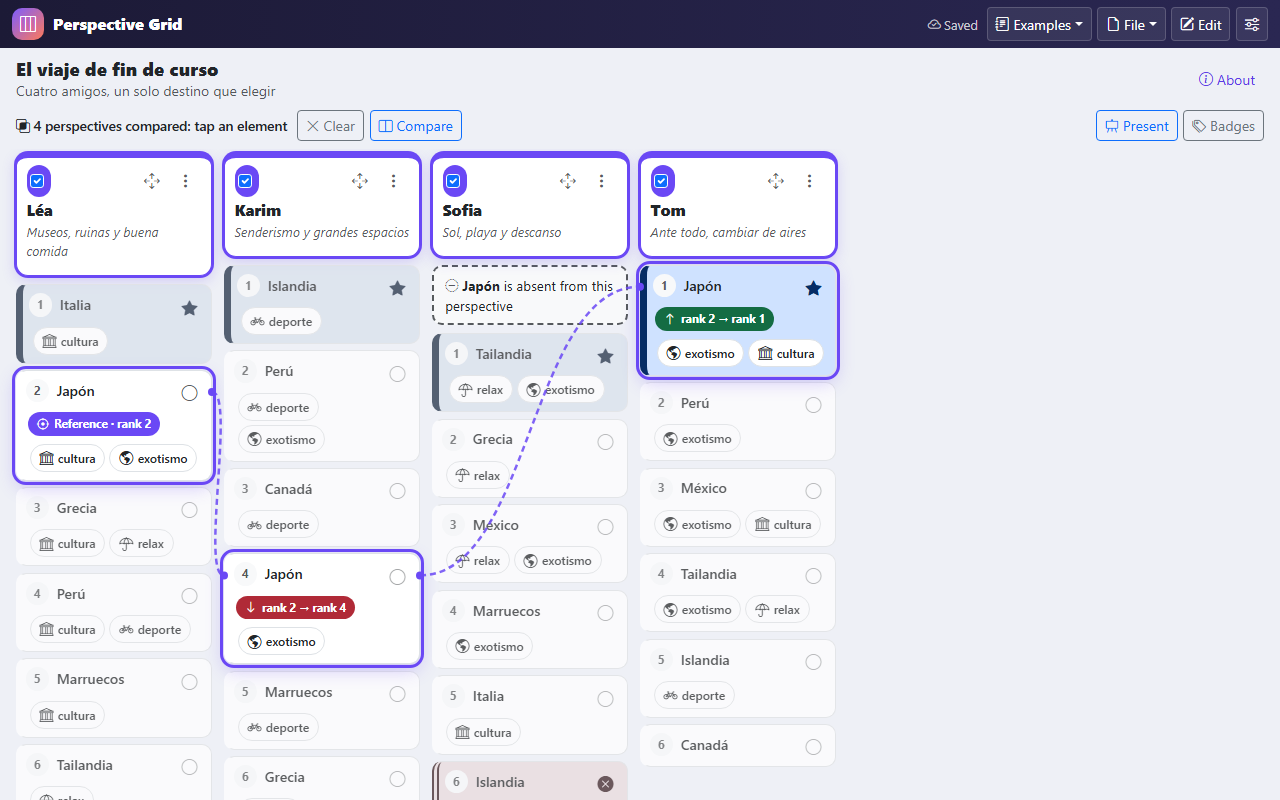
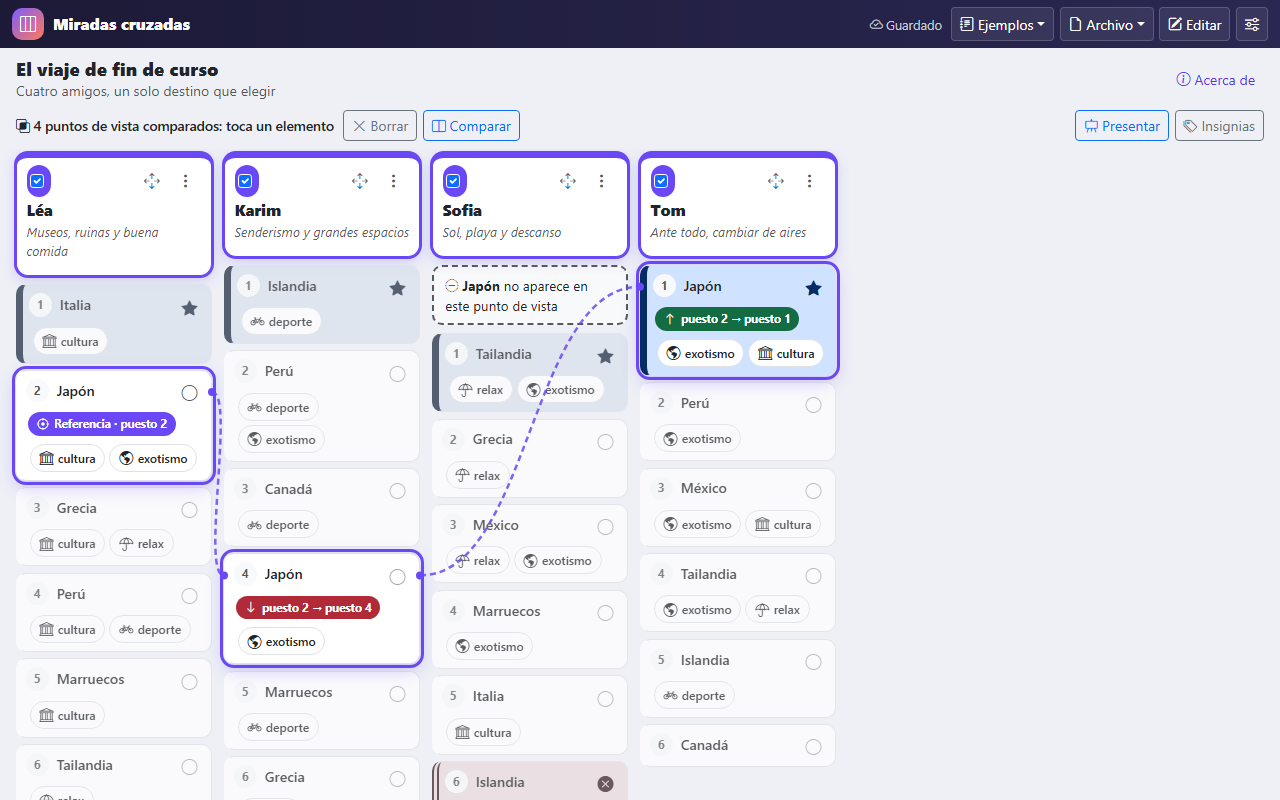
Interface en espagnol (dictionnaire es dans i18n.js, bouton Español), ?lang=fr|en|es dans l'adresse ; captures ES avec l'interface espagnole et README à jour

diff --git a/js/core/i18n.js b/js/core/i18n.js
@@ -1,6 +1,7 @@
 /*!
- * Interface translations (fr default, en). All UI strings live here.
- * Add a language: PG.i18n.add('es', { ... }, 'Español'). Missing keys fall back to French.
+ * Interface translations (fr default, en, es). All UI strings live here.
+ * Language: ?lang=fr|en|es in the address, else the saved choice, else the browser language.
+ * Add a language: PG.i18n.add('xx', { ... }, 'Name') + a data-lang button in index.html. Missing keys fall back to French.
  * DOM: data-i18n (text), data-i18n-html, data-i18n-title, data-i18n-aria (aria-label), data-i18n-placeholder.
  */
 (function (PG) {
@@ -16,6 +17,9 @@
   }
 
   function lang() {
+    var q = null;
+    try { q = new URLSearchParams(location.search).get('lang'); } catch (e) { /* ignore */ }
+    if (q && dict[q]) return q;
     var saved = PG.store.get('lang', null);
     if (saved && dict[saved]) return saved;
     var nav = (navigator.language || 'fr').slice(0, 2).toLowerCase();
@@ -384,4 +388,183 @@
     'st.offNote': 'No presentation mode is active in the main window (Present menu).',
     's.withStage': 'Open the link in the current presentation mode', 's.noStage': 'No presentation mode active'
   });
+})(window.PG);
+
+/* =================================================================== ES (interface + modes de présentation) */
+(function (PG) {
+  'use strict';
+  PG.i18n.add('es', {
+    'c.ok': 'Aceptar', 'c.cancel': 'Cancelar', 'c.close': 'Cerrar', 'c.save': 'Guardar', 'c.dateLocale': 'es-ES',
+
+    'a.brand': 'Miradas cruzadas', 'a.skip': 'Ir a la cuadrícula', 'a.mainNav': 'Barra principal',
+    'a.examples': 'Ejemplos', 'a.file': 'Archivo', 'a.load': 'Cargar una cuadrícula',
+    'a.openFile': 'Abrir un archivo .md…', 'a.pasteText': 'Pegar Markdown…', 'a.openUrl': 'Abrir desde una dirección…',
+    'a.export': 'Exportar en Markdown…', 'a.share': 'Enlace para compartir…', 'a.source': 'Ver / editar el Markdown',
+    'a.snapshot': 'Guardar una versión', 'a.history': 'Historial de versiones',
+    'a.edit': 'Editar', 'a.editTitle': 'Modo edición: mover, añadir, modificar (tecla E)',
+    'a.settings': 'Ajustes de visualización', 'a.theme': 'Tema', 'a.themeAuto': 'Auto', 'a.themeLight': 'Claro', 'a.themeDark': 'Oscuro',
+    'a.display': 'Visualización', 'a.prefPatterns': 'Tramas reforzadas (rayado según el estado)', 'a.prefLinks': 'Líneas de unión entre columnas', 'a.prefRanks': 'Números de puesto',
+    'a.language': 'Idioma de la interfaz', 'a.formatDoc': 'Documentación', 'a.withAi': 'Crear una cuadrícula con una IA…',
+    'a.about': 'Acerca de', 'a.warnTitle': 'Avisos de lectura', 'a.warnIntro': 'El archivo se ha cargado, pero algunos pasajes se han interpretado o ignorado:',
+    'a.warnClear': 'Entendido', 'a.saved': 'Guardado', 'a.editing': 'Editando…', 'a.storageFull': 'Almacenamiento local lleno: exporta tu cuadrícula',
+    'a.new': 'Nueva cuadrícula', 'a.newTitle': 'Nueva cuadrícula', 'a.newColumn': 'Punto de vista {n}',
+    'a.confirmNew': '¿Crear una cuadrícula vacía? La cuadrícula actual se guardará en el historial.',
+    'a.alreadyOpen': 'Este ejemplo ya está abierto.', 'a.exampleLoaded': 'Ejemplo cargado: {title}', 'a.linkLoaded': 'Cuadrícula abierta desde el enlace: {title}',
+    'a.nothingToUndo': 'No hay nada que deshacer.', 'a.undone': 'Cambio deshecho', 'a.redone': 'Cambio rehecho',
+    'a.editOn': 'Modo edición activado', 'a.editOff': 'Modo consulta', 'a.compactOn': 'Vista de comparación: solo se muestran las columnas seleccionadas',
+    'a.compactOff': 'Se muestran todas las columnas', 'a.selCleared': 'Selección borrada',
+
+    't.aria': 'Comparación', 't.selNone': 'Selecciona al menos 2 puntos de vista para compararlos', 't.selOne': 'Selecciona un 2.º punto de vista',
+    't.selNoneShort': 'Elige 2 columnas', 't.selOneShort': '1 columna más', 't.selN': '{n} puntos de vista comparados: toca un elemento',
+    't.all': 'Todas', 't.clear': 'Borrar', 't.compact': 'Comparar', 't.compactTitle': 'Mostrar solo las columnas seleccionadas, en una vista compacta',
+
+    'g.aria': 'Cuadrícula de puntos de vista', 'g.cellsAria': 'Elementos ordenados por {title}', 'g.compare': 'Comparar', 'g.selected': 'Seleccionada',
+    'g.selectHint': 'Selecciona esta columna para compararla', 'g.selectAria': 'Comparar «{title}»',
+    'g.moveLeft': 'Mover «{title}» a la izquierda', 'g.moveRight': 'Mover «{title}» a la derecha',
+    'g.moveLeftShort': 'Mover a la izquierda', 'g.moveRightShort': 'Mover a la derecha', 'g.dragCol': 'Arrastrar para mover la columna',
+    'g.colMenu': 'Acciones sobre «{title}»', 'g.colMenuShort': 'Acciones de la columna', 'g.selectForCompare': 'Seleccionar para comparar', 'g.unselect': 'Quitar de la comparación',
+    'g.moreDetail': 'Leer más', 'g.lessDetail': 'Mostrar menos',
+    'g.rankSr': 'Puesto {n}', 'g.stateSr': 'estado: {state}', 'g.badgesSr': 'insignias: {list}',
+    'g.stateBtn': 'Estado: {state} — cambiar (1 a 6)', 'g.stateBtnAria': 'Estado de «{title}»: {state}. Cambiar el estado o las insignias',
+    'g.stateHeader': 'Estado', 'g.cellMenuAria': 'Estado e insignias de la celda', 'g.defaultDesc': 'Descripción general del elemento',
+    'g.reference': 'Referencia · puesto {n}', 'g.rankGap': 'puesto {from} → puesto {to}', 'g.sameRank': 'mismo puesto ({n})',
+    'g.absent': '{title} no aparece en este punto de vista',
+    'g.srCompare': '{title}: {list}.', 'g.srRank': 'puesto {n} para {col}', 'g.srAbsent': 'ausente en {col}',
+    'g.srSame': 'mismo puesto', 'g.srLower': '{n} puesto(s) más abajo', 'g.srHigher': '{n} puesto(s) más arriba',
+    'g.srSelected': '{title} seleccionada. {n} columna(s) seleccionada(s).', 'g.srUnselected': '{title} quitada. {n} columna(s) seleccionada(s).',
+    'g.srStateSet': '{title}: estado {state}', 'g.srColMoved': '{title} movida a la posición {n} de {total}',
+    'g.empty': 'Esta cuadrícula aún no tiene ningún punto de vista.', 'g.emptyEdit': 'Añadir puntos de vista',
+
+    'state.default': 'Sin estado', 'state.primary': 'Destacado', 'state.success': 'Valorado', 'state.warning': 'Matizado, debatido',
+    'state.danger': 'Rechazado, opuesto', 'state.muted': 'Secundario, apartado',
+
+    'badge.central': 'central', 'badge.accepted': 'aceptado', 'badge.overvalued': 'sobrevalorado', 'badge.undervalued': 'infravalorado',
+    'badge.contested': 'discutido', 'badge.rejected': 'rechazado', 'badge.ignored': 'ignorado', 'badge.denied': 'negado', 'badge.instrumentalized': 'instrumentalizado',
+    'b.header': 'Insignias', 'b.drawer': 'Insignias', 'b.drawerTitle': 'Cajón de insignias', 'b.badgeAria': 'Insignia: {label}',
+    'b.helpMouse': 'Arrastra una insignia a una celda, o haz clic en una insignia y luego en las celdas que quieras anotar.',
+    'b.helpTouch': 'Toca una insignia y luego las celdas que quieras anotar. También puedes usar el botón de estado de una celda.',
+    'b.customHelp': 'Se pueden declarar más insignias en el encabezado del archivo (badges:).',
+    'b.armed': 'Toca celdas para añadir o quitar {badge}', 'b.disarm': 'Terminado', 'b.already': 'Esta insignia ya está en la celda.',
+    'b.srArmed': 'Insignia {label} lista: toca las celdas para anotarlas', 'b.srAdded': 'Insignia {label} añadida a {title}', 'b.srRemoved': 'Insignia {label} quitada de {title}',
+
+    'e.mode': 'Modo edición', 'e.barAria': 'Herramientas de edición', 'e.hint': 'Doble clic en un texto para editarlo · asa para mover · + para añadir',
+    'e.done': 'Terminado', 'e.undo': 'Deshacer', 'e.redo': 'Rehacer', 'e.undoTitle': 'Deshacer (Ctrl+Z)', 'e.redoTitle': 'Rehacer (Ctrl+Y)',
+    'e.docProps': 'Título e introducción', 'e.addColumn': 'Añadir un punto de vista', 'e.editColumn': 'Editar el punto de vista', 'e.newColumn': 'Nuevo punto de vista',
+    'e.addCell': 'Añadir un elemento', 'e.addCellAt': 'Añadir un elemento en la posición {n}', 'e.addSpacer': 'Añadir una casilla vacía (alineación)',
+    'e.editCell': 'Editar', 'e.editCellAria': 'Editar «{title}»', 'e.deleteCell': 'Eliminar', 'e.moveUp': 'Subir', 'e.moveDown': 'Bajar',
+    'e.duplicateColumn': 'Duplicar la columna', 'e.deleteColumn': 'Eliminar la columna', 'e.copyOf': '{title} (copia)',
+    'e.drag': 'Arrastrar para mover (o Alt+↑/↓)', 'e.spacer': 'Casilla vacía', 'e.spacerMenu': 'Acciones de la casilla vacía',
+    'e.inlineAria': 'Editar el texto (Intro para confirmar, Escape para cancelar)', 'e.saved': 'Cambio guardado',
+    'e.newCellIn': 'Nuevo elemento en «{title}» (posición {n})', 'e.editCellIn': 'Elemento de «{title}»',
+    'e.title': 'Título', 'e.titlePh': 'p. ej. El papel del error', 'e.titleHelp': 'Déjalo vacío para usar el título común: «{title}».',
+    'e.key': 'Clave (identificador común)', 'e.keyAuto': 'Generada a partir del título. Elige una clave existente para enlazar este elemento con otras columnas.',
+    'e.keyNew': 'Elemento nuevo: se podrá reutilizar en otras columnas.', 'e.keyCatalog': 'Elemento del catálogo.',
+    'e.keyShared': 'Mismo elemento que en: {list}.', 'e.keyDup': 'Esta clave ya se usa en esta columna.', 'e.alreadyInColumn': 'ya está en esta columna',
+    'e.badKey': 'Clave no válida.', 'e.needTitle': 'Escribe un título.', 'e.state': 'Estado', 'e.detail': 'Detalle para este punto de vista', 'e.detailPh': 'Lo que significa este elemento para este punto de vista…',
+    'e.mdHelp': 'Se acepta Markdown: **negrita**, *cursiva*, listas, enlaces.', 'e.catalog': 'Elemento común (compartido por todas las columnas)',
+    'e.catalogHelp': 'Este título y esta descripción se aplican allí donde el elemento no tiene texto propio.',
+    'e.catalogTitle': 'Título común', 'e.catalogDetail': 'Descripción general', 'e.add': 'Añadir', 'e.cellAdded': 'Elemento añadido', 'e.columnAdded': 'Punto de vista añadido',
+    'e.colTitle': 'Título', 'e.colId': 'Identificador', 'e.auto': 'automático', 'e.colSubtitle': 'Subtítulo', 'e.colSubtitlePh': 'p. ej. autores, época',
+    'e.colSummary': 'Descripción breve (encabezado)', 'e.colDetail': 'Descripción detallada (desplegable)',
+    'e.docTitle': 'Título de la cuadrícula', 'e.docSubtitle': 'Subtítulo', 'e.docLang': 'Idioma', 'e.docIntro': 'Introducción (botón «Acerca de»)',
+    'e.docAuthor': 'Autor', 'e.docSource': 'Fuente', 'e.docVersion': 'Versión {v} · basada en: {based} · actualizada: {updated}',
+    'e.confirmDeleteCell': '¿Eliminar «{title}» de «{col}»?', 'e.confirmDeleteColumn': '¿Eliminar el punto de vista «{title}» y sus {n} celdas?',
+    'e.cellDeleted': '«{title}» eliminado.', 'e.columnDeleted': '«{title}» eliminado.',
+    'e.srMoved': '{title}: puesto {n} de {total}',
+
+    'k.title': 'Atajos de teclado', 'k.enter': 'Intro / Espacio', 'k.esc': 'Esc', 'k.nav': 'Moverse entre celdas (mismo elemento en la columna siguiente)', 'k.toggle': 'Desplegar el detalle y comparar',
+    'k.states': 'Cambiar el estado de la celda', 'k.menu': 'Menú de estado e insignias', 'k.escape': 'Dejar de comparar, cerrar un menú',
+    'k.moveCol': 'Mover la columna', 'k.edit': 'Entrar / salir del modo edición', 'k.moveCell': 'Subir / bajar la celda (modo edición)',
+    'k.editCell': 'Editar la celda (modo edición)', 'k.del': 'Supr', 'k.deleteCell': 'Eliminar la celda (modo edición)', 'k.undo': 'Deshacer / rehacer',
+    'k.snapshot': 'Guardar una versión', 'k.help': 'Mostrar esta ayuda', 'k.note': 'Estados: 1 ninguno · 2 destacado · 3 valorado · 4 matizado · 5 rechazado · 6 secundario.',
+
+    'h.title': 'Historial de versiones', 'h.intro': 'Versiones guardadas en este navegador. Antes de reemplazar la cuadrícula se hace una copia automática.',
+    'h.empty': 'Aún no hay ninguna versión.', 'h.emptyHint': 'Archivo › Guardar una versión, o Ctrl+S.', 'h.auto': 'Copia automática',
+    'h.stats': '{p} columnas · {c} celdas', 'h.identical': 'Igual que la cuadrícula abierta', 'h.diff': '{add} / {del} líneas respecto a la cuadrícula abierta',
+    'h.restore': 'Restaurar', 'h.rename': 'Renombrar', 'h.download': 'Descargar', 'h.delete': 'Eliminar',
+    'h.confirmRestore': '¿Restaurar «{label}»? Antes se guardará una copia de la cuadrícula actual.', 'h.restored': 'Versión restaurada.',
+    'h.renamePrompt': 'Nuevo nombre de la versión:', 'h.confirmDelete': '¿Eliminar definitivamente la versión «{label}»?',
+    'h.snapTitle': 'Guardar una versión', 'h.snapPrompt': 'Nombre de esta versión:', 'h.snapDefault': 'Versión del {date}', 'h.saved': 'Versión «{label}» guardada.',
+    'h.full': 'Almacenamiento local lleno: elimina versiones o exporta la cuadrícula.', 'h.unnamed': 'Versión sin nombre',
+    'h.beforeRestore': 'Antes de restaurar «{label}»', 'h.beforeImport': 'Antes de importar {name}', 'h.beforeExample': 'Antes del ejemplo «{title}»',
+    'h.beforeNew': 'Antes de la nueva cuadrícula', 'h.beforeLink': 'Antes de abrir un enlace', 'h.exported': 'Exportación v{v}',
+
+    'i.title': 'Cargar una cuadrícula', 'i.tab.file': 'Archivo', 'i.tab.paste': 'Pegar', 'i.tab.url': 'Dirección',
+    'i.drop': 'Arrastra y suelta aquí un archivo <strong>.md</strong> o <u>búscalo</u>', 'i.dropRelease': 'Suelta el archivo para verlo',
+    'i.pasteLabel': 'Markdown que importar', 'i.pastePh': 'Pega aquí el Markdown de una cuadrícula (formato perspective-grid/v1)…',
+    'i.urlLabel': 'Dirección de un archivo .md en línea', 'i.urlHelp': 'El sitio debe permitir que otras páginas lo lean (CORS), como GitHub (enlace «Raw»).',
+    'i.fetch': 'Cargar', 'i.loading': 'Cargando…', 'i.apply': 'Reemplazar la cuadrícula actual', 'i.applySource': 'Aplicar los cambios',
+    'i.stats': '{p} puntos de vista · {c} celdas · {e} elementos, {sh} de ellos en varias columnas.',
+    'i.warnings': '{n} aviso(s) de lectura', 'i.noWarning': 'Archivo leído sin avisos.', 'i.line': 'Línea {n}:',
+    'i.miniAria': 'Vista previa de la cuadrícula', 'i.nothing': 'No se ha encontrado ningún punto de vista: revisa el formato («# Perspectives» y luego «## Título {#id}»).',
+    'i.badFile': 'Este archivo no es un archivo de texto ni Markdown (.md).', 'i.pasted': 'texto pegado',
+    'i.loaded': 'Cuadrícula cargada: {title}', 'i.sourceApplied': 'Markdown aplicado.',
+    'i.errTitle': 'No se puede abrir esta cuadrícula', 'i.errShowing': 'En su lugar se muestra tu última cuadrícula.',
+    'i.errFetch': 'No se ha podido cargar el archivo ({detail}).', 'i.errCors': 'Puede que el sitio que aloja este archivo no permita que otras páginas lo lean (CORS).',
+    'i.errFile': 'Esta página debe abrirse desde un servidor web (http://…) para cargar un archivo en línea.',
+    'i.errLink': 'Este enlace está incompleto o dañado. Pide a quien lo compartió que lo vuelva a copiar.',
+    'i.errUnsupported': 'Este navegador no puede leer este enlace comprimido. Prueba una versión reciente de Chrome, Edge, Firefox o Safari.',
+    'i.errExample': 'Ejemplo desconocido: «{id}».',
+
+    'w.no-front-matter': 'Falta el encabezado (--- … ---) al principio del archivo.', 'w.unclosed-front-matter': 'El encabezado no se cierra con una línea «---».',
+    'w.bad-front-matter-line': 'Línea de encabezado ilegible: «{text}».', 'w.bad-badge-definition': 'Definición de insignia ilegible: «{text}» (se esperaba «clave: icono | Etiqueta»).',
+    'w.unknown-format': 'Formato «{value}» desconocido (se esperaba: perspective-grid/v1).', 'w.bad-version': 'La versión «{value}» no es un número entero: se usa 1.',
+    'w.no-title': 'La cuadrícula no tiene título.', 'w.no-perspectives': 'No se ha encontrado ningún punto de vista («# Perspectives» y luego «## Título {#id}»).',
+    'w.unknown-section': 'Sección desconocida «# {title}»: se ignora su contenido.', 'w.heading-before-section': 'Título «{title}» fuera de las secciones «# Elements» / «# Perspectives»: ignorado.',
+    'w.ignored-text': 'Texto fuera de cualquier elemento, punto de vista o celda: ignorado.', 'w.element-no-key': 'El elemento «{title}» no tiene [clave]: se usa «{key}».',
+    'w.element-no-title': 'El elemento [{key}] no tiene título.', 'w.duplicate-element': 'El elemento [{key}] está definido dos veces: se ignora la segunda definición.',
+    'w.bad-key': 'Clave no válida «{key}».', 'w.duplicate-perspective': 'El identificador «{id}» se usa dos veces: renombrado «{next}».',
+    'w.cell-outside-perspective': 'Celda situada antes de cualquier punto de vista: ignorada.', 'w.cell-no-key': 'La celda «{title}» no tiene [clave]: se usa «{key}».',
+    'w.spacer-content-ignored': 'Una casilla vacía [-] no puede tener título ni detalle: se ignoran.',
+    'w.unknown-state': 'Estado «{value}» desconocido (posibles: {allowed}): se usa «default».',
+    'w.unknown-badge': 'Insignia «{value}» desconocida: declárala en el encabezado (badges:) para darle un icono y una etiqueta.',
+    'w.duplicate-in-column': 'La clave [{key}] aparece dos veces en «{perspective}»: la comparación usa la primera.',
+    'w.unknown-key': 'La clave [{key}] no está en el catálogo y la celda no tiene título: se ha creado un elemento.',
+    'w.unknown-columns': 'Ancho de columnas «{value}» desconocido (posibles: {allowed}): se usa el ancho normal.',
+
+    'x.title': 'Exportar en Markdown', 'x.intro': 'El archivo exportado es una nueva versión: el original nunca se sobrescribe.',
+    'x.version': 'Versión', 'x.basedOn': 'Basada en', 'x.updated': 'Fecha', 'x.file': 'Nombre del archivo',
+    'x.adopt': 'Seguir trabajando en esta nueva versión (y añadirla al historial)', 'x.preview': 'Vista previa del Markdown',
+    'x.copy': 'Copiar', 'x.download': 'Descargar', 'x.copied': 'Markdown copiado en el portapapeles.', 'x.copyFailed': 'No se ha podido copiar: selecciona el texto y cópialo.',
+    'x.done': '{file} descargado.',
+
+    's.title': 'Compartir la cuadrícula', 's.withSelection': 'Abrir el enlace con las {n} columnas seleccionadas (y la vista actual)',
+    's.noSelection': 'Selecciona al menos 2 columnas para abrir el enlace directamente en comparación',
+    's.embedTitle': 'Enlace autónomo', 's.embedIntro': 'Toda la cuadrícula va comprimida en el enlace: no se envía nada a ningún servidor. Ideal para un código QR o un mensaje, siempre que la cuadrícula sea corta.',
+    's.srcTitle': 'Enlace a un archivo en línea', 's.srcIntro': 'Sube el archivo .md a un sitio público (GitHub, aula virtual, servidor del centro) y pega su dirección: el enlace mostrará siempre la última versión del archivo.',
+    's.srcLabel': 'Dirección del archivo .md', 's.copy': 'Copiar el enlace', 's.open': 'Abrir', 's.copied': 'Enlace copiado.',
+    's.length': 'Longitud: {n} caracteres.', 's.long': 'Enlace muy largo: algunas aplicaciones de mensajería lo cortarán. Mejor un enlace a un archivo en línea.',
+    's.unsupported': 'Este navegador no puede comprimir enlaces.',
+    'e.docColumns': 'Ancho de las columnas', 'e.docColumnsHelp': 'Estrechas: para tarjetas muy cortas (una palabra, un nombre).',
+    'e.cols.narrow': 'Estrechas', 'e.cols.normal': 'Normales', 'e.cols.wide': 'Anchas',
+
+    'k.pages': 'Av Pág / Re Pág', 'k.stage': 'Presentación: revelar lo siguiente / volver', 'st.menu': 'Presentar', 'st.menuTitle': 'Modos de presentación: destacado, revelado progresivo',
+    'st.spot': 'Destacado', 'st.spotHelp': 'Una sola columna activa, las demás en gris; dentro de ella, el elemento abierto resalta.',
+    'st.reveal': 'Revelado', 'st.revealOff': 'Todo visible',
+    'st.revealVeil': 'Progresivo', 'st.revealVeilHelp': 'Los elementos quedan atenuados hasta que se tocan.',
+    'st.revealZero': 'Desde cero', 'st.revealZeroHelp': 'Solo se ven el primer encabezado y la forma de las tarjetas.',
+    'st.order': 'Orden del botón «Siguiente»', 'st.orderColumn': 'Columna por columna', 'st.orderRank': 'Puesto por puesto (todos los n.º 1, luego los n.º 2…)',
+    'st.orderElement': 'Elemento por elemento (un elemento en todas las columnas)',
+    'st.presenter': 'Ventana del presentador', 'st.keysHelp': 'Mando: Av Pág / Re Pág (o N / P).',
+    'st.barAria': 'Controles de presentación', 'st.prev': 'Anterior', 'st.prevTitle': 'Volver atrás (Re Pág)',
+    'st.next': 'Siguiente', 'st.nextCol': 'Columna siguiente', 'st.nextTitle': 'Revelar lo siguiente (Av Pág)',
+    'st.peek': 'Vistazo', 'st.peekTitle': 'Mostrar discretamente lo que viene después (para el presentador)',
+    'st.reset': 'Empezar de nuevo', 'st.all': 'Revelar todo', 'st.exit': 'Salir de la presentación',
+    'st.progress': '{done} / {total} revelados', 'st.focusProgress': '{col} · {n} / {total}',
+    'st.nextIs': 'Después: {label}', 'st.allDone': 'Todo está revelado.',
+    'st.colStep': 'Punto de vista: {col}', 'st.headStep': 'Encabezado: {col}', 'st.cellStep': '{col} · puesto {n} · {title}',
+    'st.headersStep': 'Los encabezados de todos los puntos de vista', 'st.rankStep': 'Puesto {n} en cada punto de vista',
+    'st.elementStep': 'Elemento: {title} ({n} punto(s) de vista)',
+    'st.veiledSr': 'Elemento atenuado, puesto {n}: actívalo para revelarlo', 'st.maskedSr': 'Elemento oculto, puesto {n}: actívalo para revelarlo',
+    'st.maskedHeadSr': 'Punto de vista oculto n.º {n}: actívalo para revelarlo',
+    'st.srRevealed': 'Revelado: {label}', 'st.srHidden': 'Último revelado deshecho', 'st.srFocus': 'Destacado: {col}',
+    'st.noChannel': 'Este navegador no puede sincronizar una ventana del presentador.',
+    'st.popupBlocked': 'Se ha bloqueado la ventana del presentador: permite las ventanas emergentes para este sitio.',
+    'st.presenterTitle': 'Vista del presentador', 'st.waiting': 'Conectando con la ventana de presentación…',
+    'st.noMain': 'No se ha encontrado ninguna ventana de presentación: abre la cuadrícula en otra pestaña de este navegador y activa un modo de presentación.',
+    'st.upNext': 'Lo siguiente', 'st.justShown': 'Recién revelado', 'st.plan': 'Guion', 'st.overview': 'Vista de conjunto (en gris = aún oculto)',
+    'st.editingNote': 'La ventana principal está en modo edición: los efectos de presentación están en pausa.',
+    'st.offNote': 'No hay ningún modo de presentación activo en la ventana principal (menú Presentar).',
+    's.withStage': 'Abrir el enlace en el modo de presentación actual', 's.noStage': 'Ningún modo de presentación activo'
+  }, 'Español');
 })(window.PG);

diff --git a/js/app/app.js b/js/app/app.js
@@ -326,7 +326,11 @@
     });
     document.querySelectorAll('[data-lang]').forEach(function (b) {
       b.classList.toggle('active', b.getAttribute('data-lang') === PG.i18n.lang());
-      b.addEventListener('click', function () { PG.i18n.setLang(b.getAttribute('data-lang')); location.reload(); });
+      b.addEventListener('click', function () {
+        PG.i18n.setLang(b.getAttribute('data-lang'));
+        var u = new URL(location.href);   // ?lang= in the address would override the new choice
+        if (u.searchParams.has('lang')) { u.searchParams.delete('lang'); location.href = u.toString(); } else location.reload();
+      });
     });
 
     // undo button inside toasts

diff --git a/index.html b/index.html
@@ -77,6 +77,7 @@
             <div class="btn-group btn-group-sm" role="group">
               <button type="button" class="btn btn-outline-secondary" data-lang="fr" lang="fr">Français</button>
               <button type="button" class="btn btn-outline-secondary" data-lang="en" lang="en">English</button>
+              <button type="button" class="btn btn-outline-secondary" data-lang="es" lang="es">Español</button>
             </div>
           </fieldset>
           <button type="button" class="btn btn-sm btn-light border w-100" id="act-keys"><i class="bi bi-keyboard" aria-hidden="true"></i> <span data-i18n="k.title"></span> <kbd>?</kbd></button>

diff --git a/README.es.md b/README.es.md
@@ -17,9 +17,11 @@ posiciones (central, rechazado, ignorado…).
 Aplicación web estática, 100 % en el navegador, sin compilación: Bootstrap 5.3, Bootstrap Icons, marked,
 JavaScript sin framework, `localStorage`.
 
-> **Idioma de la interfaz**: por ahora la interfaz está en **francés e inglés** (Ajustes › *Interface
-> language*); las capturas de esta página la muestran en inglés. Las cuadrículas, en cambio, se pueden
-> escribir en cualquier idioma, como el [ejemplo en español](visuels/es/viaje-fin-de-curso.md).
+La interfaz está en **español, francés e inglés**: Ajustes › Idioma de la interfaz, o `?lang=es` en la
+dirección (por ejemplo [edu-fpar.github.io/perspective-grid/?lang=es](https://edu-fpar.github.io/perspective-grid/?lang=es)).
+Las cuadrículas se pueden escribir en cualquier idioma, como el [ejemplo en español](visuels/es/viaje-fin-de-curso.md).
+
+![Ajustes: tema, visualización e idioma de la interfaz](visuels/es/captures/settings-es.png)
 
 [Documentación (en inglés)](https://edu-fpar.github.io/perspective-grid/docs/?lang=en) &nbsp;·&nbsp; [Página para las IA](docs/skill-en.md) &nbsp;·&nbsp; [Formato de archivo](docs/FORMAT.md)
 
@@ -33,7 +35,7 @@ dirección de la página de instrucciones y tu contenido:
 > Público: estudiantes de primer año, de 4 a 6 puntos de vista. [pega aquí tu curso, tu esquema o tus notas]
 
 La IA dice primero si la herramienta es adecuada y luego da un bloque de Markdown para pegar en la
-aplicación (*File › Paste Markdown*, o Ctrl+V en la página). Las instrucciones existen en inglés
+aplicación (*Archivo › Pegar Markdown…*, o Ctrl+V en la página). Las instrucciones existen en inglés
 ([docs/skill-en.md](docs/skill-en.md)) y en francés ([docs/skill.md](docs/skill.md)). El archivo
 [`llms.txt`](llms.txt) de la raíz indica estas páginas a las IA.
 
@@ -65,33 +67,31 @@ archivo en línea (`?src=`).
 
 ## Uso
 
-Los nombres de los botones se dan tal como aparecen en la interfaz en inglés.
-
 | Quiero… | Cómo |
 |---|---|
-| Comparar dos puntos de vista | Marcar «Compare» en 2 encabezados (o tocar el encabezado) y luego tocar un elemento: puestos, diferencias ↑↓, ausencias, líneas de unión. |
-| Comparar en el móvil | Seleccionar 2 columnas y luego **Compare**: vista compacta lado a lado. |
-| Anotar en directo | Botón de estado en la celda (6 estados + insignias) o teclas **1–6**. Cajón **Badges**: arrastrar una insignia a una celda, o tocar una insignia y luego las celdas. |
+| Comparar dos puntos de vista | Marcar «Comparar» en 2 encabezados (o tocar el encabezado) y luego tocar un elemento: puestos, diferencias ↑↓, ausencias, líneas de unión. |
+| Comparar en el móvil | Seleccionar 2 columnas y luego **Comparar**: vista compacta lado a lado. |
+| Anotar en directo | Botón de estado en la celda (6 estados + insignias) o teclas **1–6**. Cajón **Insignias**: arrastrar una insignia a una celda, o tocar una insignia y luego las celdas. |
 | Mover una columna | Flechas ← → del encabezado, asa ✥ (arrastrar y soltar) o **Alt+←/→**. |
-| Modificar la cuadrícula | **Edit** (tecla E): doble clic en un texto, asa para reordenar (pulsación larga en el móvil, **Alt+↑/↓** con el teclado), **+** entre dos celdas, lápiz para el formulario completo. |
-| Cargar un archivo | File › Open, arrastrar un `.md` a la página o pegar Markdown (Ctrl+V): vista previa y avisos antes de reemplazar. |
-| Exportar | File › Export: nueva versión (`version` +1, `based_on`, `updated`), nuevo nombre de archivo; el original nunca se sobrescribe. |
-| Deshacer | Ctrl+Z durante la sesión; File › Version history para las versiones guardadas (copia automática antes de cada reemplazo). |
-| Compartir | File › Share link: enlace autónomo (`#z=`, cuadrícula comprimida en la URL) o enlace a un archivo en línea (`?src=`). |
+| Modificar la cuadrícula | **Editar** (tecla E): doble clic en un texto, asa para reordenar (pulsación larga en el móvil, **Alt+↑/↓** con el teclado), **+** entre dos celdas, lápiz para el formulario completo. |
+| Cargar un archivo | Archivo › Abrir un archivo .md…, arrastrar un `.md` a la página o pegar Markdown (Ctrl+V): vista previa y avisos antes de reemplazar. |
+| Exportar | Archivo › Exportar en Markdown…: nueva versión (`version` +1, `based_on`, `updated`), nuevo nombre de archivo; el original nunca se sobrescribe. |
+| Deshacer | Ctrl+Z durante la sesión; Archivo › Historial de versiones para las versiones guardadas (copia automática antes de cada reemplazo). |
+| Compartir | Archivo › Enlace para compartir…: enlace autónomo (`#z=`, cuadrícula comprimida en la URL) o enlace a un archivo en línea (`?src=`). |
 
-### Presentar sin sobrecargar (menú **Present**)
+### Presentar sin sobrecargar (menú **Presentar**)
 
 | Modo | Efecto |
 |---|---|
-| **Spotlight** (destacado) | Una sola columna activa, las demás en gris (un clic en una columna gris la destaca). En la columna, el elemento abierto resalta y los demás se atenúan. |
-| **Reveal › Progressive** (revelado progresivo) | Los elementos quedan borrosos y sin color de estado hasta que se tocan. |
-| **Reveal › From scratch** (desde cero) | Solo se ven el primer encabezado y la forma de las tarjetas; se revela con un clic o con **Next**. |
+| **Destacado** | Una sola columna activa, las demás en gris (un clic en una columna gris la destaca). En la columna, el elemento abierto resalta y los demás se atenúan. |
+| **Revelado › Progresivo** | Los elementos quedan borrosos y sin color de estado hasta que se tocan. |
+| **Revelado › Desde cero** | Solo se ven el primer encabezado y la forma de las tarjetas; se revela con un clic o con **Siguiente**. |
 
 ![Revelado progresivo: solo se ven los elementos ya tocados](visuels/es/captures/progressive-reveal-es.png)
 
-El botón **Next** sigue el orden elegido: columna por columna, puesto por puesto (todos los n.º 1, luego
-los n.º 2…) o elemento por elemento (un mismo elemento aparece en todas las columnas a la vez; «Spotlight»
-resalta entonces esa «fila»). Mando de presentación: **Av Pág / Re Pág** (o N / P). **Peek** muestra
+El botón **Siguiente** sigue el orden elegido: columna por columna, puesto por puesto (todos los n.º 1, luego
+los n.º 2…) o elemento por elemento (un mismo elemento aparece en todas las columnas a la vez; «Destacado»
+resalta entonces esa «fila»). Mando de presentación: **Av Pág / Re Pág** (o N / P). **Vistazo** muestra
 discretamente el paso siguiente; la **ventana del presentador** (para la pantalla del ordenador mientras
 se proyecta la cuadrícula) muestra todo el desarrollo, el paso siguiente con sus notas (detalles, estados,
 insignias) y controla la proyección. Estos modos nunca modifican el archivo.
@@ -101,13 +101,14 @@ insignias) y controla la proyección. Estos modos nunca modifican el archivo.
 | Parámetro | Efecto |
 |---|---|
 | `?src=https://…/cuadricula.md` | Carga un archivo en línea (mismo sitio, o sitio que permita CORS: GitHub «Raw»…). |
+| `?lang=es` / `?lang=en` / `?lang=fr` | Idioma de la interfaz (prioritario sobre la elección guardada y el idioma del navegador). |
 | `#z=…` | Cuadrícula completa comprimida en el enlace (generado por la aplicación). |
 | `?ex=courants-pedagogiques` / `?ex=ethiques-ia` / `?ex=voyage-fin-d-annee` | Abre un ejemplo. |
 | `&cols=id1,id2` | Preselecciona columnas para la comparación. |
 | `&compact=1` | Abre directamente la vista de comparación compacta. |
-| `&spot=1` | Abre en modo «Spotlight». |
+| `&spot=1` | Abre en modo «Destacado». |
 | `&stage=veil` / `&stage=zero` | Abre en revelado progresivo / desde cero. |
-| `&order=column` / `rank` / `element` | Orden del botón «Next». |
+| `&order=column` / `rank` / `element` | Orden del botón «Siguiente». |
 
 ## Formato de archivo
 
@@ -150,8 +151,8 @@ Las palabras clave del formato (`# Elements`, `# Perspectives`, `state:`, `badge
 ### Ancho de las columnas
 
 Por defecto, las columnas tienen un ancho pensado para tarjetas con texto. Para tarjetas muy cortas (el
-nombre de un país, una palabra), añade `columns: narrow` en el encabezado del archivo o elige «Narrow» en
-Edit › Title and introduction: las columnas son más estrechas y caben dos en la pantalla de un móvil.
+nombre de un país, una palabra), añade `columns: narrow` en el encabezado del archivo o elige «Estrechas» en
+Editar › Título e introducción: las columnas son más estrechas y caben dos en la pantalla de un móvil.
 `columns: wide` da columnas más anchas.
 
 ## Skills para Claude Code (desarrolladores)
@@ -180,7 +181,7 @@ index.html            aplicación (consulta + edición)
 css/app.css           estilos (mobile-first, temas claro/oscuro, estados accesibles)
 js/core/format.js     analizador, serializador, validador (navegador + Node)
 js/core/pg.js         utilidades, almacenamiento seguro, enlaces comprimidos, Markdown saneado
-js/core/i18n.js       todos los textos de la interfaz (fr, en)
+js/core/i18n.js       todos los textos de la interfaz (fr, en, es)
 js/core/samples.js    ejemplos integrados (generado)
 js/app/grid.js        renderizado, comparación, navegación con teclado, columnas
 js/app/edit.js        modo edición, formularios, arrastrar y soltar celdas

diff --git a/README.en.md b/README.en.md
@@ -15,8 +15,8 @@ ranked from most to least important; you compare ranks, absences and positions (
 ignored…).
 
 A static web app, 100 % in the browser, with no build step: Bootstrap 5.3, Bootstrap Icons, marked,
-plain JavaScript, `localStorage`. The interface is available in **English and French** (Settings ›
-Interface language); grids can be written in any language.
+plain JavaScript, `localStorage`. The interface is available in **English, French and Spanish** (Settings ›
+Interface language, or `?lang=en` / `?lang=fr` / `?lang=es` in the address); grids can be written in any language.
 
 [Documentation](https://edu-fpar.github.io/perspective-grid/docs/?lang=en) &nbsp;·&nbsp; [Page for AIs](docs/skill-en.md) &nbsp;·&nbsp; [File format](docs/FORMAT.md)
 
@@ -95,6 +95,7 @@ never change the file.
 | Parameter | Effect |
 |---|---|
 | `?src=https://…/grid.md` | Loads an online file (same site, or a site allowing CORS: GitHub "Raw"…). |
+| `?lang=en` / `?lang=fr` / `?lang=es` | Interface language (takes priority over the saved choice and the browser language). |
 | `#z=…` | Full grid compressed in the link (generated by the app). |
 | `?ex=courants-pedagogiques` / `?ex=ethiques-ia` / `?ex=voyage-fin-d-annee` | Opens an example. |
 | `&cols=id1,id2` | Preselects columns for the comparison. |
@@ -170,7 +171,7 @@ index.html            app (viewing + editing)
 css/app.css           styles (mobile-first, light/dark themes, accessible states)
 js/core/format.js     parser, serializer, validator (browser + Node)
 js/core/pg.js         utilities, safe storage, compressed links, sanitized Markdown
-js/core/i18n.js       all interface labels (fr, en)
+js/core/i18n.js       all interface labels (fr, en, es)
 js/core/samples.js    built-in examples (generated)
 js/app/grid.js        rendering, comparison, keyboard navigation, columns
 js/app/edit.js        edit mode, forms, cell drag and drop

diff --git a/README.md b/README.md
@@ -84,6 +84,7 @@ Télécommande de présentation : **Page suivante / Page précédente** (ou N / 
 | Paramètre | Effet |
 |---|---|
 | `?src=https://…/grille.md` | Charge un fichier en ligne (même site, ou site autorisant CORS : GitHub « Raw »…). |
+| `?lang=fr` / `?lang=en` / `?lang=es` | Langue de l’interface (prioritaire sur le choix enregistré et la langue du navigateur). |
 | `#z=…` | Grille complète compressée dans le lien (généré par l’application). |
 | `?ex=courants-pedagogiques` / `?ex=ethiques-ia` / `?ex=voyage-fin-d-annee` | Ouvre un exemple. |
 | `&cols=id1,id2` | Présélectionne des colonnes pour la comparaison. |
@@ -161,7 +162,7 @@ index.html            application (consultation + édition)
 css/app.css           styles (mobile-first, thèmes jour/nuit, états accessibles)
 js/core/format.js     parseur, sérialiseur, validateur (navigateur + Node)
 js/core/pg.js         utilitaires, stockage sûr, liens compressés, Markdown nettoyé
-js/core/i18n.js       tous les libellés de l’interface (fr, en)
+js/core/i18n.js       tous les libellés de l’interface (fr, en, es)
 js/core/samples.js    exemples intégrés (généré)
 js/app/grid.js        rendu, comparaison, navigation clavier, colonnes
 js/app/edit.js        mode édition, formulaires, glisser-déposer des cellules
